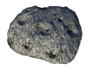
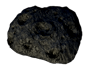
UFO renamed to scrap. Scrap moved to separate layouts. Asteroids makes more dark.

diff --git a/src/ru/kamisempai/livewallpaperstars/Scene.java b/src/ru/kamisempai/livewallpaperstars/Scene.java
@@ -2,6 +2,7 @@ package ru.kamisempai.livewallpaperstars;
 
 import java.security.SecureRandom;
 
+import ru.kamisempai.livewallpaperstars.sprite.AbsSprite;
 import ru.kamisempai.livewallpaperstars.sprite.ILayout;
 import ru.kamisempai.livewallpaperstars.sprite.ISprite;
 import ru.kamisempai.livewallpaperstars.sprite.StarsLayout;
@@ -18,67 +19,80 @@ import android.view.SurfaceHolder;
 
 public class Scene {
 	private static final float STAR_SIZE = 18;
-	private static final int LAYOUT_COUNT = 20;
-	private static final int UFO_COUNT = 10;
-	private static final int UFO_DELAY = 2000;
-	private static final float UFO_ROTATE_MAX_SPEED = 30;
-	private static final float UFO_ROTATE_MIN_SPEED = 10;
-	private static final float UFO_MAX_SPEED = 30;
-	private static final float UFO_MIN_SPEED = 10;
+	private static final int STARS_LAYOUT_COUNT = 15;
+	private static final int SCRAP_LAYOUT_COUNT = 5;
+	private static final int SCRAP_COUNT = 10;
+	private static final int SCRAP_RELEASE_DELAY = 2000;
+	private static final float SCRAP_ROTATE_MAX_SPEED = 30;
+	private static final float SCRAP_ROTATE_MIN_SPEED = 10;
+	private static final float SCRAP_MAX_SPEED = 30;
+	private static final float SCRAP_MIN_SPEED = 10;
 	private static final int STARS_COUNT = 300;
-	private static final float DEPTH_MIN = 0.7f;
-	private static final float DEPTH_MAX = 1.2f;
-	
-	private StarsLayout[] mLayouts;
+	private static final float STAR_DEPTH_MIN = 0.7f;
+	private static final float STAR_DEPTH_MAX = 0.9f;
+	private static final float SCRAP_DEPTH_MIN = 0.95f;
+	private static final float SCRAP_DEPTH_MAX = 1.5f;
+
+	private StarsLayout[] mStarsLayouts;
+	private ISprite[] mScrapLayouts;
 	private int surfaceWidth; 
-	private RandomSpriteFactory mSpriteFactory;
+	private RandomSpriteFactory mScrapFactory;
 
 	private SecureRandom mRandom;
-	private long mUfoReleseTime;
-	private int mUfoCount;
+	private long mScrapReleseTime;
+	private int mScrapCount;
 	
 	@SuppressLint("TrulyRandom")
 	public Scene(Context context, SurfaceHolder holder, int format,
 			int width, int height) {
 		mRandom = new SecureRandom(new byte[] {(byte) width, (byte) height, (byte) System.currentTimeMillis()});
-		mSpriteFactory = new RandomSpriteFactory(context);
+		mScrapFactory = new RandomSpriteFactory(context);
 		
 		surfaceWidth = width;
-		mUfoReleseTime = 0;
-		mUfoCount = 0;
+		mScrapReleseTime = 0;
+		mScrapCount = 0;
 		
 		float layoutWidth = width * 3;
 		float layoutHeight = height;
 		
-		int starsPerLayout = STARS_COUNT / LAYOUT_COUNT;
-		mLayouts = new StarsLayout[LAYOUT_COUNT];
-		for(int i = 0; i < mLayouts.length; i++) {
-			float depth = getLayoutDepth(i);
-			mLayouts[i] = new StarsLayout(layoutWidth * depth, layoutHeight, starsPerLayout , STAR_SIZE * depth);
+		int starsPerLayout = STARS_COUNT / STARS_LAYOUT_COUNT;
+		mStarsLayouts = new StarsLayout[STARS_LAYOUT_COUNT];
+		for(int i = 0; i < mStarsLayouts.length; i++) {
+			float depth = STAR_DEPTH_MIN + ((STAR_DEPTH_MAX - STAR_DEPTH_MIN) / (STARS_LAYOUT_COUNT - 1)) * i;
+			mStarsLayouts[i] = new StarsLayout(layoutWidth * depth, layoutHeight, starsPerLayout , STAR_SIZE * depth);
+		}
+
+		mScrapLayouts = new ISprite[SCRAP_LAYOUT_COUNT];
+		for(int i = 0; i < mScrapLayouts.length; i++) {
+			float depth = getScrapDepth(i);
+			mScrapLayouts[i] = new AbsSprite(0, 0, layoutWidth * depth, layoutHeight);
 		}
 	}
 	
 	public void onOffsetsChanged(float xOffset, float yOffset, float xStep,
 			float yStep, int xPixels, int yPixels) {
-		for(StarsLayout layout: mLayouts) {
+		for(StarsLayout layout: mStarsLayouts) {
+			layout.setPosition((surfaceWidth - layout.getWidth()) * xOffset, 0);
+		}
+		for(ISprite layout: mScrapLayouts) {
 			layout.setPosition((surfaceWidth - layout.getWidth()) * xOffset, 0);
 		}
 	}
 	
 	public void update(long timeDelta) {
-		mUfoReleseTime += timeDelta;
-		if(mUfoCount < UFO_COUNT && mUfoReleseTime >= UFO_DELAY) {
-			mUfoReleseTime = 0;
-			int layoutIndex = mRandom.nextInt(mLayouts.length);
+		mScrapReleseTime += timeDelta;
+		if(mScrapCount < SCRAP_COUNT && mScrapReleseTime >= SCRAP_RELEASE_DELAY) {
+			mScrapReleseTime = 0;
+			int layoutIndex = mRandom.nextInt(mScrapLayouts.length);
 			
-			final ISprite ufoSprite = mSpriteFactory.newSprite();
-			float depth = getLayoutDepth(layoutIndex);
-			ufoSprite.setSize(ufoSprite.getWidth() * depth, ufoSprite.getHeight() * depth);
+			final ISprite scrapSprite = mScrapFactory.newSprite();
+			float depth = getScrapDepth(layoutIndex);
+			scrapSprite.setSize(scrapSprite.getWidth() * depth, scrapSprite.getHeight() * depth);
 
 			boolean vertical = mRandom.nextBoolean();
 			boolean leftToRight = mRandom.nextBoolean();
-			float rotationSpeed = (leftToRight ? 1 : -1) * UFO_ROTATE_MIN_SPEED + mRandom.nextInt((int) (UFO_ROTATE_MAX_SPEED - UFO_ROTATE_MIN_SPEED));
-			float speed = UFO_MIN_SPEED + mRandom.nextInt((int) (UFO_MAX_SPEED - UFO_MIN_SPEED));
+			float rotationSpeed = (leftToRight ? 1 : -1) * SCRAP_ROTATE_MIN_SPEED + mRandom.nextInt((int) (SCRAP_ROTATE_MAX_SPEED - SCRAP_ROTATE_MIN_SPEED));
+			float speed = SCRAP_MIN_SPEED + mRandom.nextInt((int) (SCRAP_MAX_SPEED - SCRAP_MIN_SPEED));
 			
 			float fromX;
 			float fromY;
@@ -86,8 +100,8 @@ public class Scene {
 			float toY;
 			
 			if(vertical) {
-				fromY = - ufoSprite.getHeight() * 2;
-				toY = mLayouts[layoutIndex].getHeight() + ufoSprite.getHeight() * 2;
+				fromY = - scrapSprite.getHeight() * 2;
+				toY = mScrapLayouts[layoutIndex].getHeight() + scrapSprite.getHeight() * 2;
 				
 				if(!leftToRight) {
 					float y = fromY;
@@ -95,12 +109,12 @@ public class Scene {
 					toY = y;
 				}
 
-				fromX = mRandom.nextInt((int) mLayouts[layoutIndex].getWidth());
-				toX = mRandom.nextInt((int) mLayouts[layoutIndex].getWidth());
+				fromX = mRandom.nextInt((int) mScrapLayouts[layoutIndex].getWidth());
+				toX = mRandom.nextInt((int) mScrapLayouts[layoutIndex].getWidth());
 			}
 			else {
-				fromX = - ufoSprite.getWidth() * 2;
-				toX = mLayouts[layoutIndex].getWidth() + ufoSprite.getWidth() * 2;
+				fromX = - scrapSprite.getWidth() * 2;
+				toX = mScrapLayouts[layoutIndex].getWidth() + scrapSprite.getWidth() * 2;
 				
 				if(!leftToRight) {
 					float x = fromX;
@@ -108,8 +122,8 @@ public class Scene {
 					toX = x;
 				}
 
-				fromY = mRandom.nextInt((int) mLayouts[layoutIndex].getHeight());
-				toY = mRandom.nextInt((int) mLayouts[layoutIndex].getHeight());
+				fromY = mRandom.nextInt((int) mScrapLayouts[layoutIndex].getHeight());
+				toY = mRandom.nextInt((int) mScrapLayouts[layoutIndex].getHeight());
 			}
 			
 			float deltaX = fromX - toX;
@@ -122,26 +136,30 @@ public class Scene {
 			modifiersSet.add(new TranslateModifier(fromX, fromY, toX, toY, time, new AbsTimeLimitedModifier.CompletionListener() {
 				@Override
 				public void onComplete(AbsTimeLimitedModifier modifier) {
-					ufoSprite.removeFromParent();
-					mUfoCount--;
+					scrapSprite.removeFromParent();
+					mScrapCount--;
 				}
 			}));
-			ufoSprite.setSpriteModifier(modifiersSet);
-			mLayouts[layoutIndex].addSprite(ufoSprite);
-			mUfoCount++;
+			scrapSprite.setSpriteModifier(modifiersSet);
+			mScrapLayouts[layoutIndex].addSprite(scrapSprite);
+			mScrapCount++;
 		}
-		for(ILayout layout: mLayouts)
+		for(ILayout layout: mStarsLayouts)
+			layout.update(timeDelta);
+		for(ILayout layout: mScrapLayouts)
 			layout.update(timeDelta);
 	}
 	
 	public void draw(Canvas canvas, RectF vsibleRect) {
 		canvas.drawColor(Color.BLACK);
-		for(ILayout layout: mLayouts)
+		for(ILayout layout: mStarsLayouts)
+			layout.draw(canvas, vsibleRect);
+		for(ILayout layout: mScrapLayouts)
 			layout.draw(canvas, vsibleRect);
 	}
 	
-	private float getLayoutDepth(int index) {
-		float depthStep = (DEPTH_MAX - DEPTH_MIN) / (LAYOUT_COUNT - 1);
-		return DEPTH_MIN + depthStep * index;
+	private float getScrapDepth(int index) {
+		float depthStep = (SCRAP_DEPTH_MAX - SCRAP_DEPTH_MIN) / (SCRAP_LAYOUT_COUNT - 1);
+		return SCRAP_DEPTH_MIN + depthStep * index;
 	}
 }

diff --git a/src/ru/kamisempai/livewallpaperstars/RandomSpriteFactory.java b/src/ru/kamisempai/livewallpaperstars/RandomSpriteFactory.java
@@ -11,7 +11,7 @@ import ru.kamisempai.livewallpaperstars.sprite.BitmapSprite;
 import ru.kamisempai.livewallpaperstars.sprite.ISprite;
 
 public class RandomSpriteFactory {
-	private static final String[] FILES_LIST = {"asteroid1.png", "asteroid2.png", "asteroid3.png", "asteroid4.png", "asteroid5.png", "asteroid6.png"};
+	private static final String[] FILES_LIST = {"asteroid1.png", "asteroid2.png", "asteroid3.png", "asteroid4.png", "asteroid5.png"};
 	
 	private Context mContext;
 	private Random mRandom;
@@ -27,7 +27,6 @@ public class RandomSpriteFactory {
 		try {
 			inputStream = assets.open(FILES_LIST[mRandom.nextInt(FILES_LIST.length)]);
 		} catch (IOException e) {
-			// TODO Auto-generated catch block
 			e.printStackTrace();
 		}
 		return new BitmapSprite(BitmapFactory.decodeStream(inputStream), 300, 300);

diff --git a/src/ru/kamisempai/livewallpaperstars/sprite/AbsSprite.java b/src/ru/kamisempai/livewallpaperstars/sprite/AbsSprite.java
@@ -90,6 +90,7 @@ public class AbsSprite extends AbsSpriteLayout implements ISprite {
 	
 	@Override
 	public void update(long timeDelta) {
+		super.update(timeDelta);
 		if(mModifier != null)
 			mModifier.modify(this, timeDelta);
 	}

diff --git a/src/ru/kamisempai/livewallpaperstars/sprite/AbsSpriteLayout.java b/src/ru/kamisempai/livewallpaperstars/sprite/AbsSpriteLayout.java
@@ -75,6 +75,7 @@ public class AbsSpriteLayout implements ILayout {
 		if(mSprites == null)
 			mSprites = new ArrayList<ISprite>();
 		mSprites.add(sprite);
+		sprite.setParrent(this);
 	}
 
 	@Override
